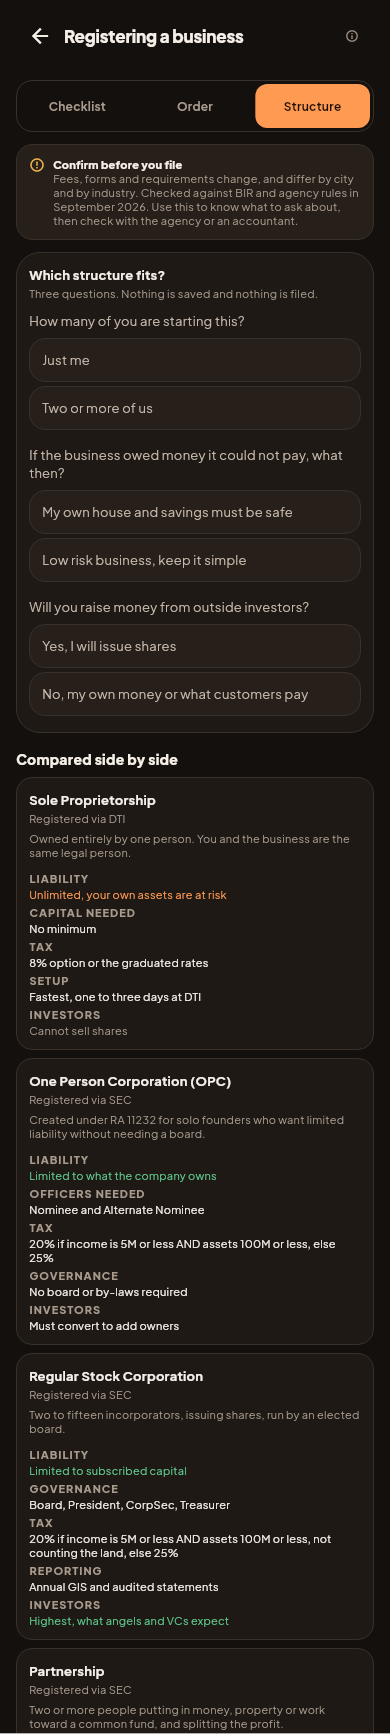
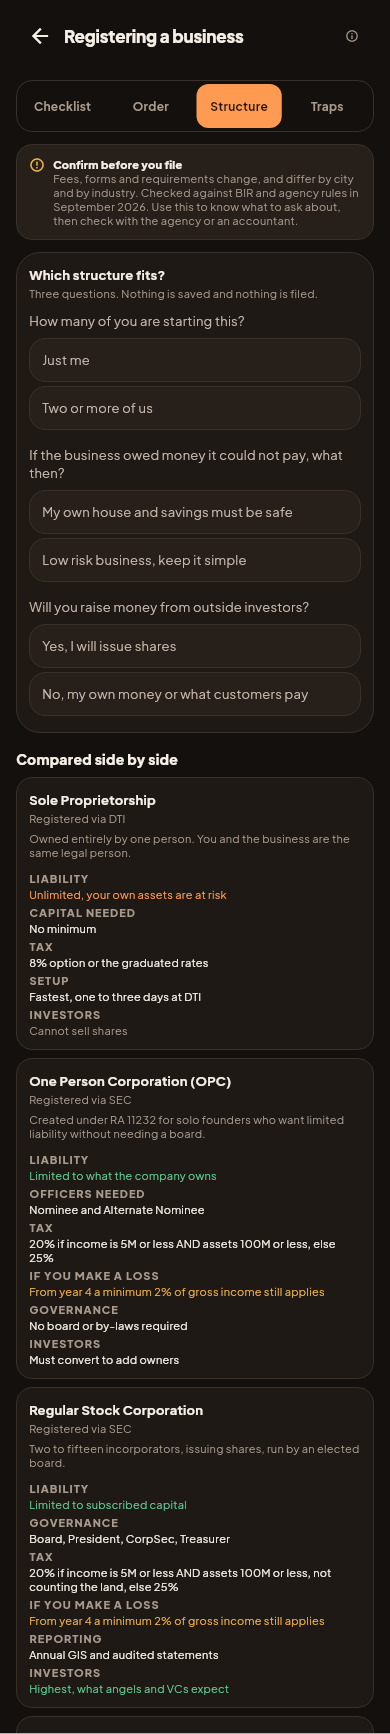
Add the minimum corporate income tax to both corporation cards
Founder direction: "add the MCIT line". The last open finding from the
factual review, and the prototype never mentions it at all.

The gap was flagged for a specific wrong conclusion rather than for
completeness: somebody comparing "sole prop at 8%" against "corporation at
20%" reads the corporation row as meaning a loss-making company pays
nothing. From its fourth year it does not.

Verified before adding, not taken from the review: 2% of gross income, from
the fourth taxable year, applying where there is a net loss or where regular
income tax comes out lower. CREATE cut it to 1% for a window ending 30 June
2023 and it reverted on 1 July 2023.

ON BOTH corporation cards. They sit next to each other, so a caveat on only
one reads as a difference between them rather than as a fact about
corporations. Broken once to prove the guard catches exactly that, by
deleting the row from one card:

  Bad state: Regular Stock Corporation never mentions MCIT

And deliberately NOT on the sole proprietorship card, which is asserted as
well: MCIT is a corporate tax, and putting it there would swap one wrong
conclusion for another.

Drawn in the warning tone, which is already covered by the contrast sweep
(warning on surface), and placed directly under the tax row where the wrong
conclusion forms rather than at the bottom of the card.

Every finding from the factual review is now closed.

flutter analyze clean, 1,300 tests pass (1,297 before).
[…]

diff --git a/app/test/data/entity_matcher_test.dart b/app/test/data/entity_matcher_test.dart
@@ -15,6 +15,8 @@ import 'package:flutter_test/flutter_test.dart';
 import 'package:salapify/data/business_guide_data.dart';
 
 void main() {
+  _mcit();
+
   group('nothing is recommended until question one is answered', () {
     test('no owners answer gives no match at all', () {
       expect(matchEntity(), isNull);
@@ -173,6 +175,67 @@ void main() {
       );
       expect(rate, contains('5M'));
       expect(rate, contains('100M'));
+    });
+  });
+}
+
+/// MCIT, which the prototype never mentions.
+///
+/// Added on the 2026-09-22 review for one reason: somebody comparing "sole
+/// prop at 8%" with "corporation at 20%" reads the corporation row as saying
+/// a loss-making company pays nothing. From its fourth year it does not.
+///
+/// Pinned on BOTH corporation cards rather than one, because they sit next to
+/// each other and a caveat on only one reads as a difference between them
+/// rather than as a fact about corporations.
+void _mcit() {
+  group('a loss-making corporation is not shown as paying nothing', () {
+    List<EntityCard> corporations() => businessEntities
+        .where(
+          (EntityCard c) =>
+              c.title.contains('Corporation') || c.title.contains('OPC'),
+        )
+        .toList(growable: false);
+
+    test('both corporation cards exist to be checked', () {
+      // Guards the filter above. If a rename made this list empty, every
+      // assertion below would pass over nothing.
+      expect(corporations().length, 2);
+    });
+
+    test('each names the minimum tax, at the right rate and year', () {
+      for (final EntityCard c in corporations()) {
+        final Iterable<String> values = c.rows.map((EntityRow r) => r.$2);
+        final String mcit = values.firstWhere(
+          (String v) => v.contains('minimum'),
+          orElse: () => throw StateError('${c.title} never mentions MCIT'),
+        );
+        expect(
+          mcit,
+          contains('2%'),
+          reason:
+              '${c.title}: CREATE cut it to 1% '
+              'for a window that ended on 30 June 2023, and it reverted',
+        );
+        expect(
+          mcit,
+          contains('year 4'),
+          reason:
+              '${c.title}: it does not '
+              'apply from day one, and saying so would be its own wrong idea',
+        );
+      }
+    });
+
+    test('the sole proprietorship card does NOT carry it', () {
+      // MCIT is a corporate tax. Putting it on the sole prop card would swap
+      // one wrong conclusion for another.
+      final EntityCard sole = businessEntities.firstWhere(
+        (EntityCard c) => c.title == 'Sole Proprietorship',
+      );
+      for (final EntityRow r in sole.rows) {
+        expect(r.$2.toLowerCase(), isNot(contains('minimum 2%')));
+      }
     });
   });
 }

diff --git a/app/lib/data/business_guide_data.dart b/app/lib/data/business_guide_data.dart
@@ -930,6 +930,17 @@ const List<EntityCard> businessEntities = <EntityCard>[
         '20% if income is 5M or less AND assets 100M or less, else 25%',
         EntityTone.plain,
       ),
+      // MCIT, added on the 2026-09-22 review and absent from the prototype
+      // entirely. The wrong conclusion it prevents is specific: somebody
+      // comparing "sole prop at 8%" with "corporation at 20%" reads the
+      // corporation row as meaning a loss-making company pays nothing. From
+      // its fourth year it does not. Confirmed at 2% of gross income, which
+      // CREATE cut to 1% for a window ending 30 June 2023 and which reverted.
+      (
+        'If you make a loss',
+        'From year 4 a minimum 2% of gross income still applies',
+        EntityTone.warn,
+      ),
       ('Governance', 'No board or by-laws required', EntityTone.plain),
       ('Investors', 'Must convert to add owners', EntityTone.plain),
     ],
@@ -951,6 +962,17 @@ const List<EntityCard> businessEntities = <EntityCard>[
         '20% if income is 5M or less AND assets 100M or less, '
             'not counting the land, else 25%',
         EntityTone.plain,
+      ),
+      // Same MCIT row as the OPC card, and on purpose. These two cards sit
+      // next to each other and a caveat on one of them reads as a difference
+      // between them rather than as a fact about corporations.
+      // Same MCIT row as the OPC card, and on purpose. These two cards sit
+      // next to each other and a caveat on one of them reads as a difference
+      // between them rather than as a fact about corporations.
+      (
+        'If you make a loss',
+        'From year 4 a minimum 2% of gross income still applies',
+        EntityTone.warn,
       ),
       ('Reporting', 'Annual GIS and audited statements', EntityTone.plain),
       ('Investors', 'Highest, what angels and VCs expect', EntityTone.good),

diff --git a/docs/migration/README.md b/docs/migration/README.md
@@ -1841,3 +1841,28 @@ they did not.
 ### The screen
 
 ![traps](screens/business-guide-traps.png)
+
+### MCIT, the last open item from the review (2026-09-22)
+
+Founder direction: "add the MCIT line". The minimum corporate income tax is
+absent from the prototype entirely, and the reviewer flagged the gap for a
+specific reason rather than for completeness: somebody comparing "sole prop at
+8%" against "corporation at 20%" reads the corporation row as saying a
+loss-making company pays nothing. From its fourth year it does not.
+
+Confirmed before adding: 2% of gross income, from the fourth taxable year,
+applying when there is a net loss or when the regular tax comes out lower.
+CREATE cut it to 1% for a window that ended on 30 June 2023 and it reverted.
+
+It is on BOTH corporation cards, not one. They sit next to each other, so a
+caveat on only one of them reads as a difference between the two rather than
+as a fact about corporations. The guard checks both, and deleting the row from
+one names it:
+
+    Bad state: Regular Stock Corporation never mentions MCIT
+
+It is deliberately NOT on the sole proprietorship card, and that is asserted
+too: MCIT is a corporate tax, and putting it there would swap one wrong
+conclusion for another.
+
+This closes every finding from the factual review.
